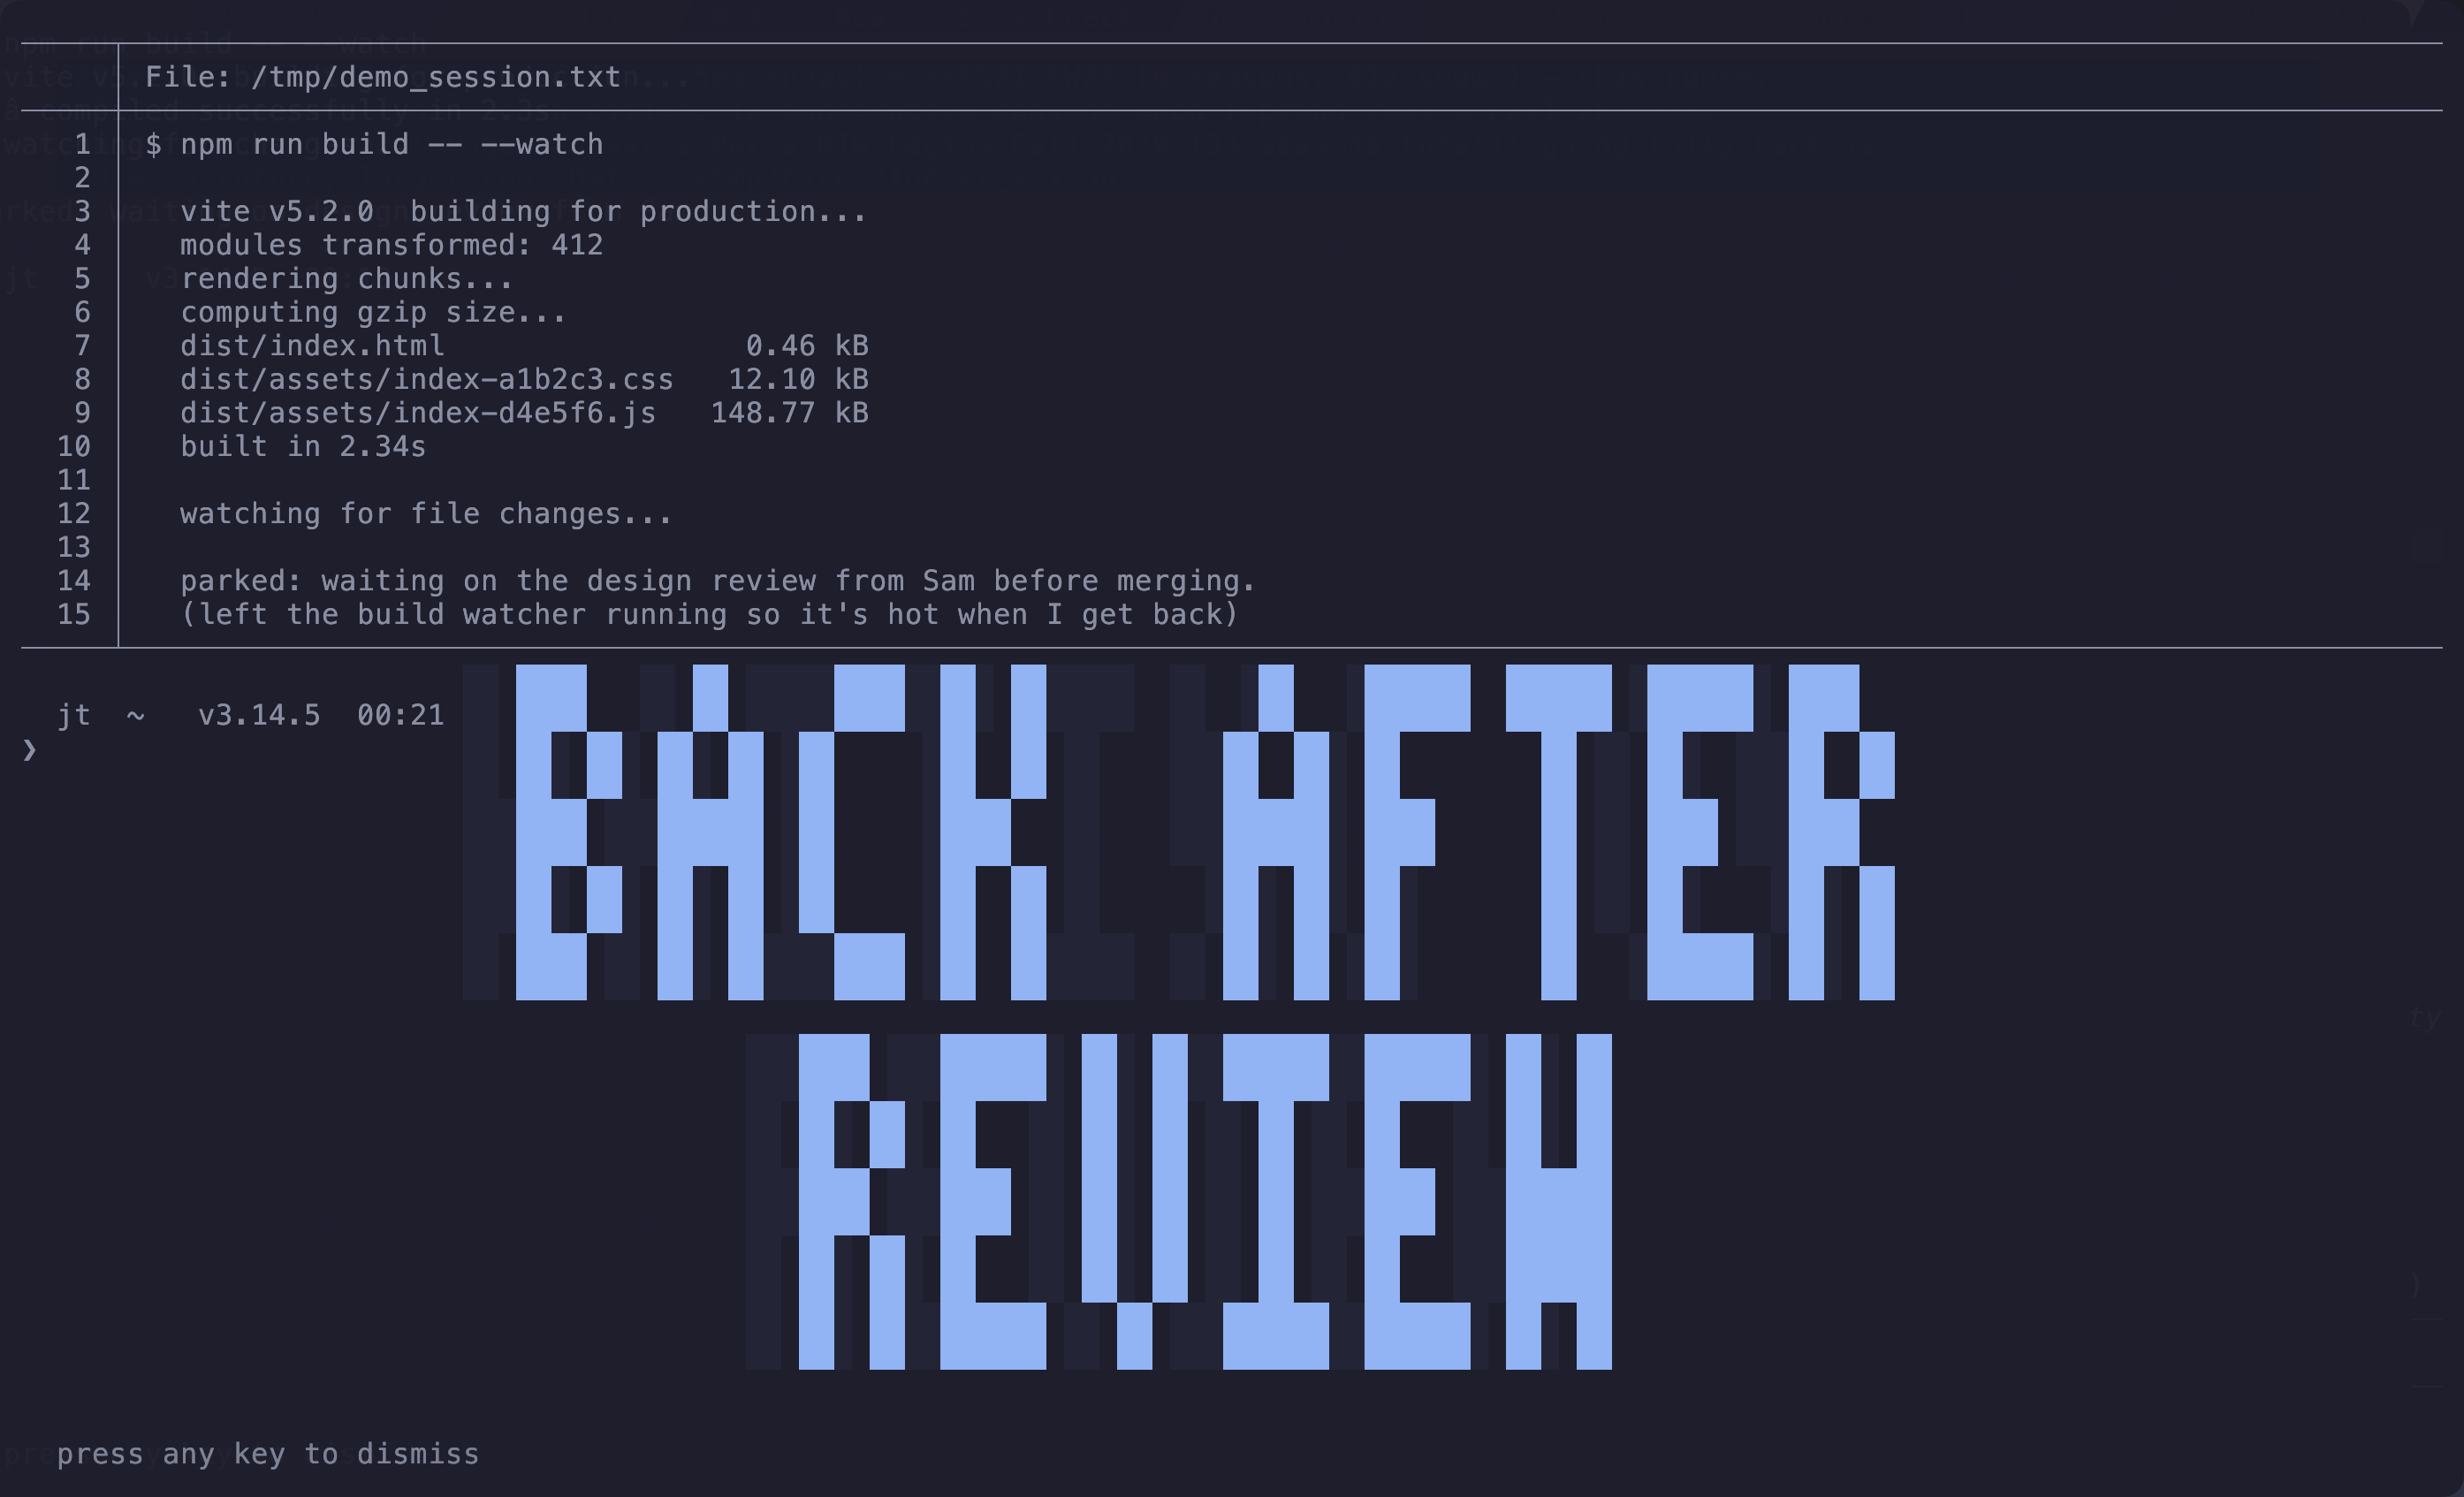
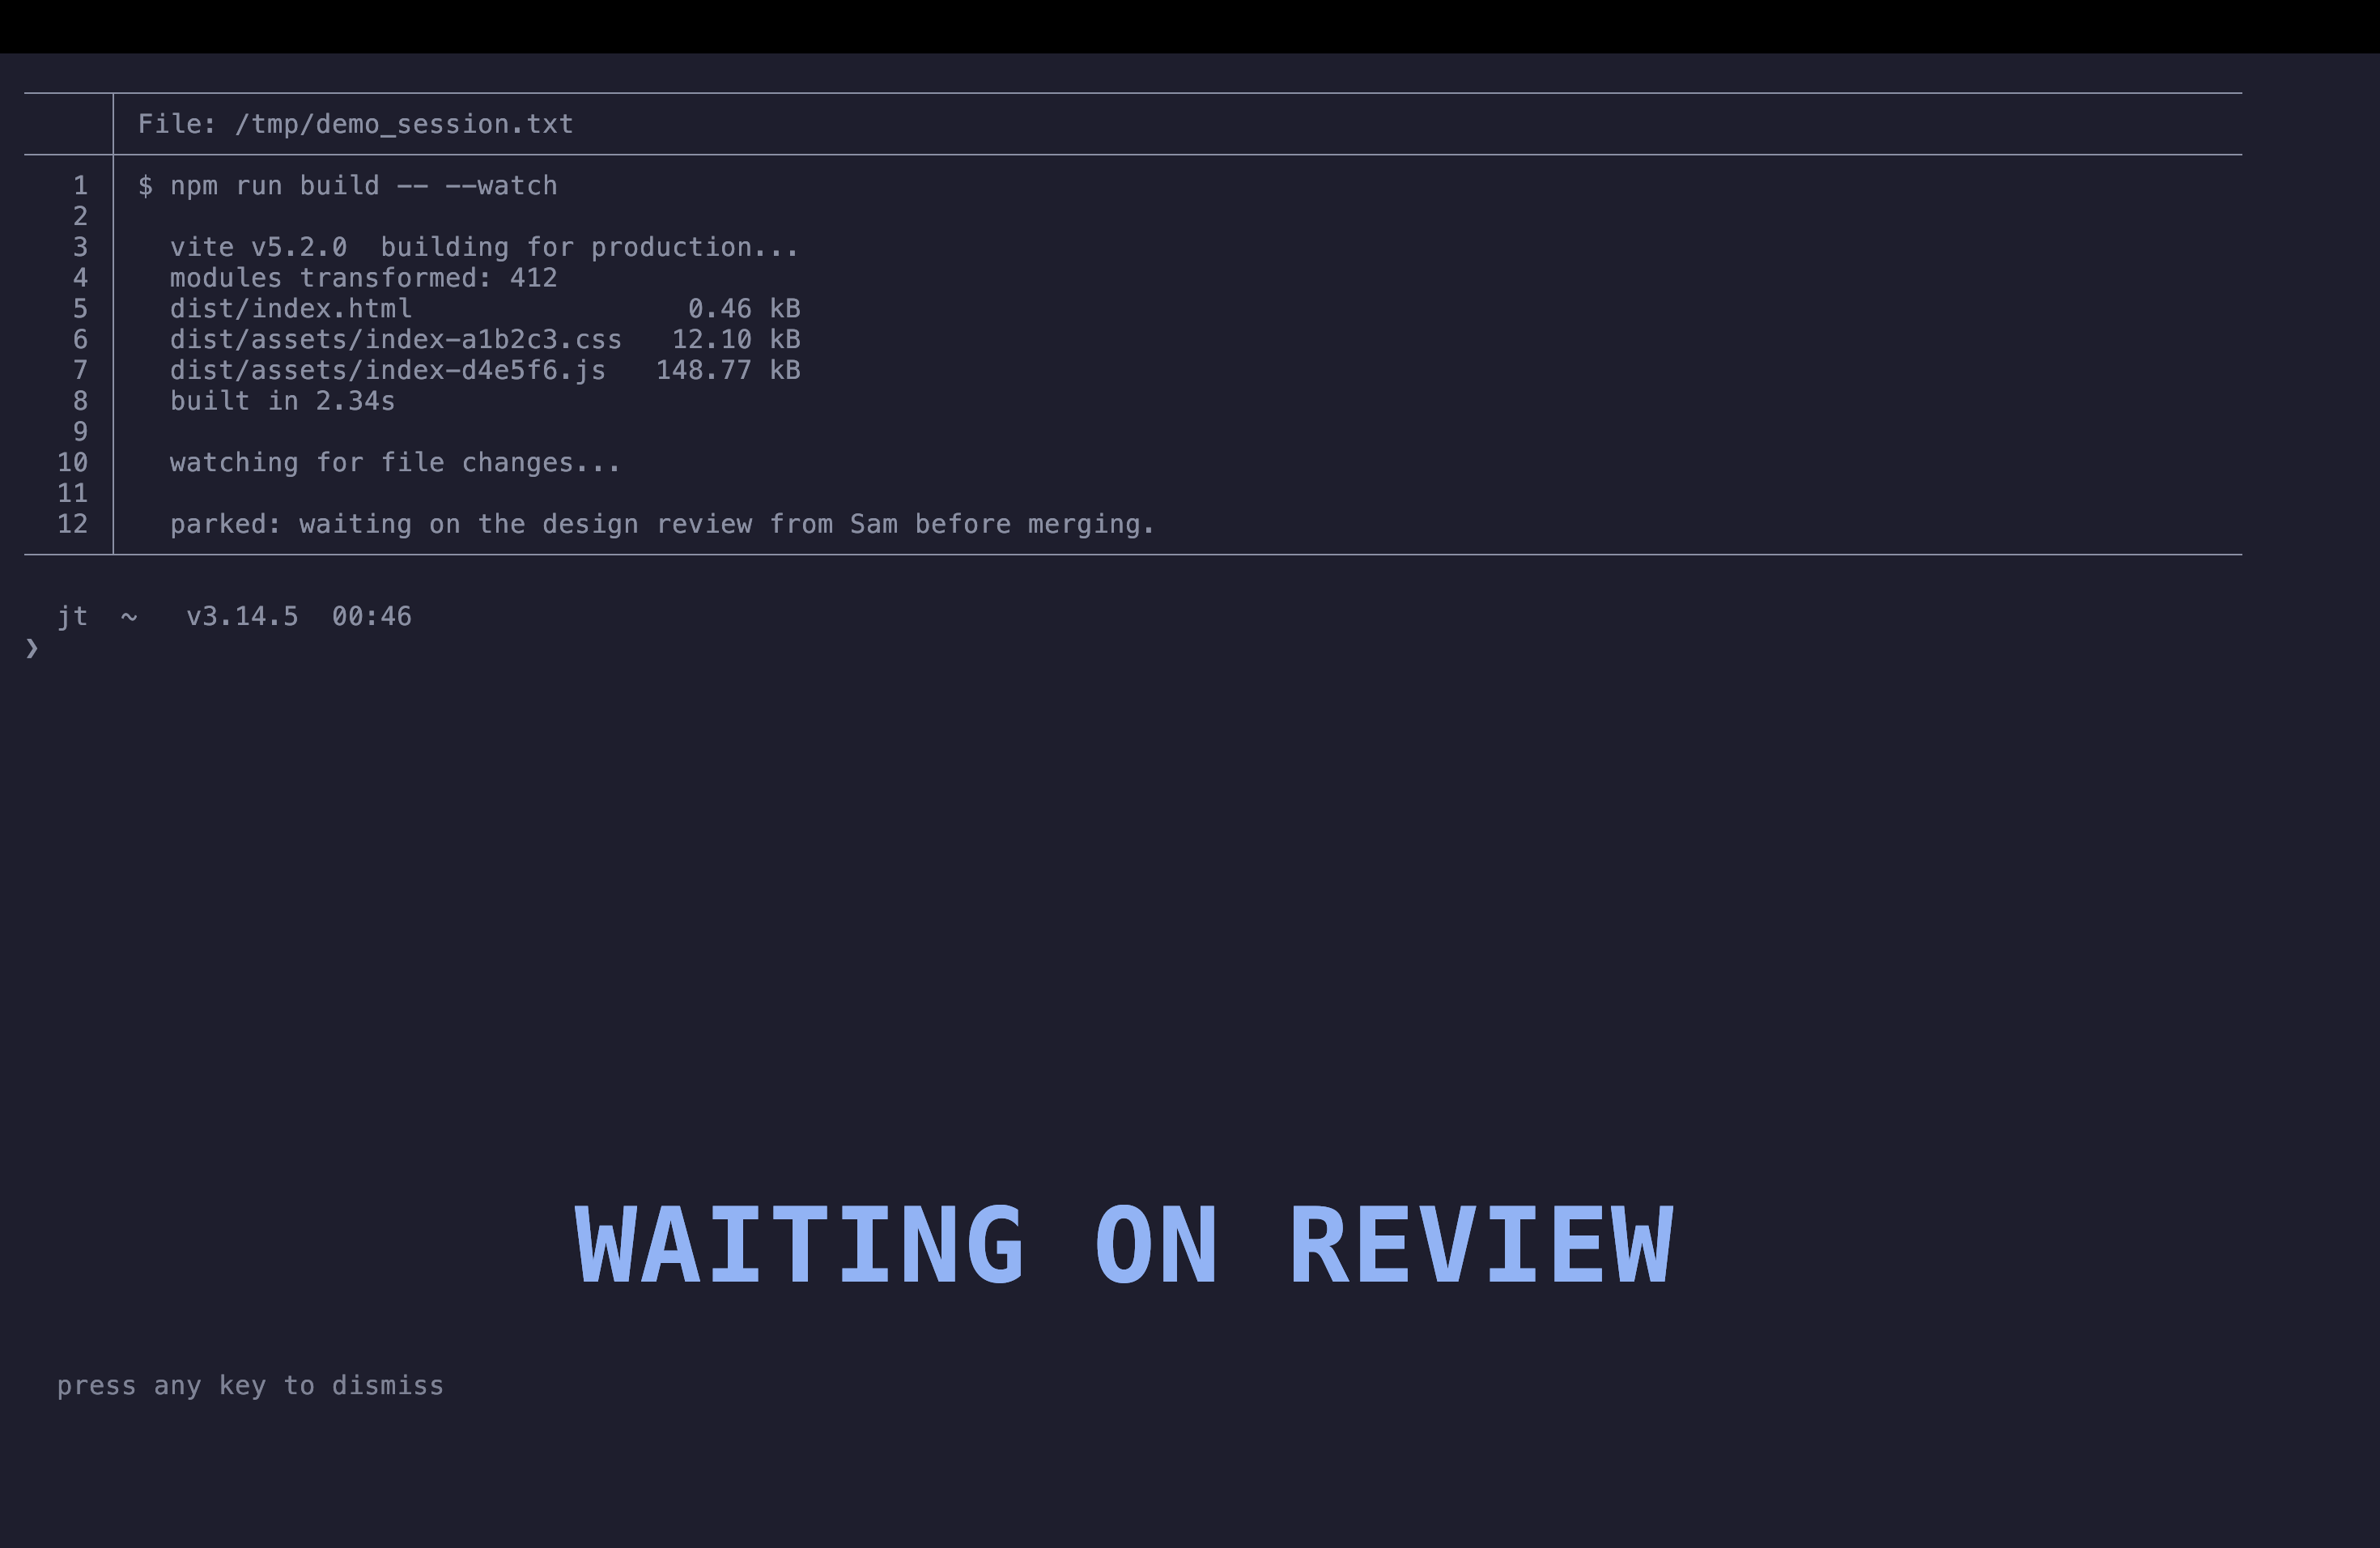
Use kitty's native text-sizing protocol for real-font notes (no more block art)
Replaces the bundled 3x5 block font with kitty's OSC 66 text-sizing protocol, so the
note is drawn in the real terminal font scaled up to 7x — crisper, simpler, and a word
can't render misspelled. Updates README + screenshot to match.

diff --git a/tab-note.py b/tab-note.py
@@ -2,23 +2,23 @@
 """
 tab-note — leave a big bold note over a "parked" kitty terminal tab.
 
-Press the bound key (see README), type a short note, and a large coloured label appears
-low on the screen as an overlay over that tab, so you remember where you left off or why
-the tab is open. The tab's existing content stays visible (slightly dimmed) behind the
-note. Press any key to dismiss.
+Press the bound key (see README), type a short note, and a large note appears low on the
+screen as an overlay over that tab, so you remember where you left off or why the tab is
+open. The tab's existing text stays visible (slightly dimmed) behind the note. Press any
+key to dismiss.
 
-Pure Python standard library — no dependencies. Renders text with a tiny built-in 3x5
-block font, upscaled and drawn with █ blocks, over a snapshot of the tab's window.
+The big text is drawn with kitty's native text-sizing protocol (real font, scaled up to 7x)
+— no images, no extra fonts, no dependencies. Requires kitty >= 0.40.
 
 Usage:
     tab-note.py                 # prompt for the note (used by the keybinding)
     tab-note.py "waiting on CI" # set the note directly (non-interactive)
 
 Customise with environment variables:
-    TABNOTE_COLOR  ANSI SGR for the note text   (default "1;94" = bold bright blue)
-    TABNOTE_DIM    ANSI SGR for the background   (default "0;2" = slight dim; "0" = none)
-    TABNOTE_SIZE   block scale, 1-4              (default 2)
-    TABNOTE_POS    bottom | middle | top         (default bottom)
+    TABNOTE_COLOR  ANSI SGR for the note   (default "1;94" = bold bright blue)
+    TABNOTE_DIM    ANSI SGR for the background (default "0;2" = slight dim; "0" = none)
+    TABNOTE_SIZE   text scale, 1-7          (default 4)
+    TABNOTE_POS    bottom | middle | top    (default bottom)
 """
 import json
 import os
@@ -26,42 +26,17 @@ import shutil
 import subprocess
 import sys
 
-# 3-wide x 5-tall bitmap font ('#' = on pixel). Notes are upper-cased before rendering.
-F = {
-    'A': [" # ", "# #", "###", "# #", "# #"], 'B': ["## ", "# #", "## ", "# #", "## "],
-    'C': [" ##", "#  ", "#  ", "#  ", " ##"], 'D': ["## ", "# #", "# #", "# #", "## "],
-    'E': ["###", "#  ", "## ", "#  ", "###"], 'F': ["###", "#  ", "## ", "#  ", "#  "],
-    'G': [" ##", "#  ", "# #", "# #", " ##"], 'H': ["# #", "# #", "###", "# #", "# #"],
-    'I': ["###", " # ", " # ", " # ", "###"], 'J': ["  #", "  #", "  #", "# #", " # "],
-    'K': ["# #", "# #", "## ", "# #", "# #"], 'L': ["#  ", "#  ", "#  ", "#  ", "###"],
-    'M': ["#   #", "## ##", "# # #", "#   #", "#   #"], 'N': ["#  #", "## #", "# ##", "#  #", "#  #"],
-    'O': [" # ", "# #", "# #", "# #", " # "], 'P': ["## ", "# #", "## ", "#  ", "#  "],
-    'Q': [" # ", "# #", "# #", " # ", "  #"], 'R': ["## ", "# #", "## ", "# #", "# #"],
-    'S': [" ##", "#  ", " # ", "  #", "## "], 'T': ["###", " # ", " # ", " # ", " # "],
-    'U': ["# #", "# #", "# #", "# #", "###"], 'V': ["# #", "# #", "# #", "# #", " # "],
-    'W': ["#   #", "#   #", "# # #", "## ##", "#   #"], 'X': ["# #", "# #", " # ", "# #", "# #"],
-    'Y': ["# #", "# #", " # ", " # ", " # "], 'Z': ["###", "  #", " # ", "#  ", "###"],
-    '0': ["###", "# #", "# #", "# #", "###"], '1': [" # ", "## ", " # ", " # ", "###"],
-    '2': ["## ", "  #", " # ", "#  ", "###"], '3': ["###", "  #", " ##", "  #", "###"],
-    '4': ["# #", "# #", "###", "  #", "  #"], '5': ["###", "#  ", "## ", "  #", "## "],
-    '6': [" ##", "#  ", "## ", "# #", " # "], '7': ["###", "  #", " # ", " # ", " # "],
-    '8': [" # ", "# #", " # ", "# #", " # "], '9': [" # ", "# #", " ##", "  #", "## "],
-    ' ': ["   ", "   ", "   ", "   ", "   "], '.': ["   ", "   ", "   ", "   ", " # "],
-    ',': ["   ", "   ", "   ", " # ", " # "], '!': [" # ", " # ", " # ", "   ", " # "],
-    '?': ["## ", "  #", " # ", "   ", " # "], ':': ["   ", " # ", "   ", " # ", "   "],
-    '-': ["   ", "   ", "###", "   ", "   "], "'": [" # ", " # ", "   ", "   ", "   "],
-    '/': ["  #", "  #", " # ", "#  ", "#  "], '(': [" ##", "#  ", "#  ", "#  ", " ##"],
-    ')': ["## ", "  #", "  #", "  #", "## "], '#': ["# #", "###", "# #", "###", "# #"],
-}
-
 NOTE_SGR = os.environ.get("TABNOTE_COLOR", "1;94")          # bold bright blue
 BG_SGR = os.environ.get("TABNOTE_DIM", "0;2")               # slight dim
-SIZE = max(1, min(4, int(os.environ.get("TABNOTE_SIZE", "2"))))
+MAX_SCALE = max(1, min(7, int(os.environ.get("TABNOTE_SIZE", "4"))))
 POS = os.environ.get("TABNOTE_POS", "bottom")
-NOTE = f"\033[{NOTE_SGR}m"
 HINT = "\033[2;37m"
 RESET = "\033[0m"
-BLOCK = "█"
+
+
+def sized(text, scale):
+    """kitty text-sizing protocol: draw `text` at `scale`x the cell size (real font)."""
+    return f"\033]66;s={scale};{text}\033\\"
 
 
 def sibling_screen():
@@ -91,31 +66,19 @@ def sibling_screen():
         return []
 
 
-def render_word(word, scale):
-    """Render one word into a list of text rows at the given block scale."""
-    rows = [""] * (5 * scale)
-    for ch in word:
-        g = F.get(ch.upper(), F[' '])
-        for r in range(5):
-            line = "".join((BLOCK if px == "#" else " ") * scale for px in g[r])
-            for s in range(scale):
-                rows[r * scale + s] += line + " " * scale   # gap between letters
-    return rows
-
-
-def wrap_lines(text, scale, max_cols):
-    """Greedy word-wrap so each rendered line fits the terminal width."""
+def wrap(note, scale, cols):
+    """Greedy word-wrap so each line fits the width once scaled."""
     out, cur = [], ""
-    for word in text.split():
-        trial = (cur + " " + word).strip()
-        if len(render_word(trial, scale)[0]) > max_cols and cur:
+    for w in note.split():
+        trial = (cur + " " + w).strip()
+        if len(trial) * scale > cols - 2 and cur:
             out.append(cur)
-            cur = word
+            cur = w
         else:
             cur = trial
     if cur:
         out.append(cur)
-    return out or [""]
+    return out or [note]
 
 
 def wait_for_key():
@@ -141,45 +104,41 @@ def main():
     if not note:
         sys.stdout.write("\033[?25h")
         try:
-            note = input(f"{NOTE}📌 Tag this tab — type a note:{RESET} ").strip()
+            note = input(f"\033[{NOTE_SGR}m📌 Tag this tab — type a note:{RESET} ").strip()
         except (EOFError, KeyboardInterrupt):
             return
     if not note:
         return
+    note = note.upper()
 
     bg = sibling_screen()
     cols, lines = shutil.get_terminal_size((80, 24))
 
-    scale = SIZE
-    first = note.split()[0] if note.split() else note
-    while scale > 1 and (len(render_word(first, scale)[0]) > cols or 5 * scale > lines // 2):
+    # pick the biggest scale where the longest word fits, and it isn't taller than ~half screen
+    longest = max((len(w) for w in note.split()), default=len(note))
+    scale = MAX_SCALE
+    while scale > 1 and (longest * scale > cols - 2 or scale * 2 > lines - 4):
         scale -= 1
+    rows = wrap(note, scale, cols)
 
-    rendered = []
-    blocks = wrap_lines(note, scale, cols - 2)
-    for i, ln in enumerate(blocks):
-        rendered.extend(render_word(ln, scale))
-        if i < len(blocks) - 1:
-            rendered.append("")                              # blank row between wrapped lines
-
-    height = len(rendered)
+    line_step = scale + 1                                  # one blank cell-row between lines
+    block_h = len(rows) * line_step - 1
     if POS == "top":
-        top = max(1, 2)
+        top = 2
     elif POS == "middle":
-        top = max(1, (lines - height) // 2)
+        top = max(1, (lines - block_h) // 2)
     else:
-        top = max(1, lines - height - 2)                     # bottom (default)
+        top = max(1, lines - block_h - 2)                  # bottom (default)
 
     out = ["\033[2J\033[H"]
-    for r, line in enumerate(bg[:lines]):                    # the tab's text, behind the note
+    for r, line in enumerate(bg[:lines]):                  # the tab's text, slightly dimmed, behind
         if line.strip():
             out.append(f"\033[{r + 1};1H\033[{BG_SGR}m{line[:cols]}{RESET}")
-    for i, row in enumerate(rendered):                       # the note, on top
-        col = max(0, (cols - len(row)) // 2) + 1
-        for ch in row:
-            if ch == BLOCK:                                  # paint only blocks; gaps show the bg
-                out.append(f"\033[{top + i};{col}H{NOTE}{BLOCK}{RESET}")
-            col += 1
+    row = top
+    for ln in rows:                                        # the note, in the real font, scaled up
+        pad = max(0, (cols - len(ln) * scale) // 2) + 1
+        out.append(f"\033[{row};{pad}H\033[{NOTE_SGR}m{sized(ln, scale)}{RESET}")
+        row += line_step
     out.append(f"\033[{lines};1H{HINT}  press any key to dismiss{RESET}")
     out.append("\033[?25l")
     sys.stdout.write("".join(out))

diff --git a/README.md b/README.md
@@ -7,7 +7,7 @@ You hit a key, type a short note, and a large coloured label appears low on the 
 overlay over that tab. The tab's existing text stays visible (slightly dimmed) behind the note.
 Press any key to dismiss it and pick up where you were.
 
-![A parked build-watcher session with a big blue "BACK AFTER REVIEW" note drawn over it](demo.png)
+![A parked build-watcher session with a big blue "WAITING ON REVIEW" note (real font) drawn over it](demo.png)
 
 It's handy when you juggle several long-running terminal sessions (build watchers, REPLs,
 AI coding agents, SSH sessions) and park some of them with a "come back to this" reason.
@@ -19,7 +19,8 @@ draws a **large** note right in the window where you can't miss it, without touc
 
 ## Requirements
 
-- **kitty** with remote control enabled. Add to `~/.config/kitty/kitty.conf` if not already:
+- **kitty ≥ 0.40** (for the [text-sizing protocol](https://sw.kovidgoyal.net/kitty/text-sizing-protocol/))
+  with remote control enabled. Add to `~/.config/kitty/kitty.conf` if not already:
   ```
   allow_remote_control yes
   listen_on unix:/tmp/kitty-{kitty_pid}
@@ -58,7 +59,7 @@ Set environment variables (e.g. in the `launch` line via `--env NAME=VALUE`):
 |---|---|---|
 | `TABNOTE_COLOR` | `1;94` | ANSI SGR for the note (bold bright blue). e.g. `1;92` green, `1;95` magenta |
 | `TABNOTE_DIM` | `0;2` | ANSI SGR for the background. `0` = not dimmed, `38;5;240` = heavily dimmed |
-| `TABNOTE_SIZE` | `2` | Block scale, 1–4 (bigger = larger letters) |
+| `TABNOTE_SIZE` | `4` | Text scale, 1–7 (bigger = larger letters) |
 | `TABNOTE_POS` | `bottom` | `bottom`, `middle`, or `top` |
 | `TABNOTE_SIBLING_HINT` | _(unset)_ | If a tab has multiple windows, prefer the one whose command contains this string |
 
@@ -74,8 +75,8 @@ Terminal overlay windows can't be truly translucent, so for a *parked* tab the s
 
 1. Snapshots the tab's window text via `kitty @ get-text`.
 2. Redraws that snapshot dimmed as the background.
-3. Paints the note on top using a tiny built-in 3×5 **block font**, upscaled and drawn with
-   `█` characters — leaving the letter gaps unpainted so the dimmed text shows through.
+3. Draws the note on top using kitty's native **text-sizing protocol** (`OSC 66`) — the real
+   terminal font, scaled up to 7× the cell size. No images, no bundled fonts, no dependencies.
 
 The background is a frozen snapshot from the moment you tag the tab, which is exactly right
 for a tab you're parking (it isn't changing). It does **not** modify the running program.
@@ -84,7 +85,7 @@ for a tab you're parking (it isn't changing). It does **not** modify the running
 
 - The background snapshot is frozen, not live. For an actively-updating session you'd want a
   split pane instead of an overlay.
-- The block font covers `A–Z 0–9` and common punctuation; notes are upper-cased when rendered.
+- Notes are upper-cased when rendered. Any text the font supports works (it's the real font).
 
 ## License
 